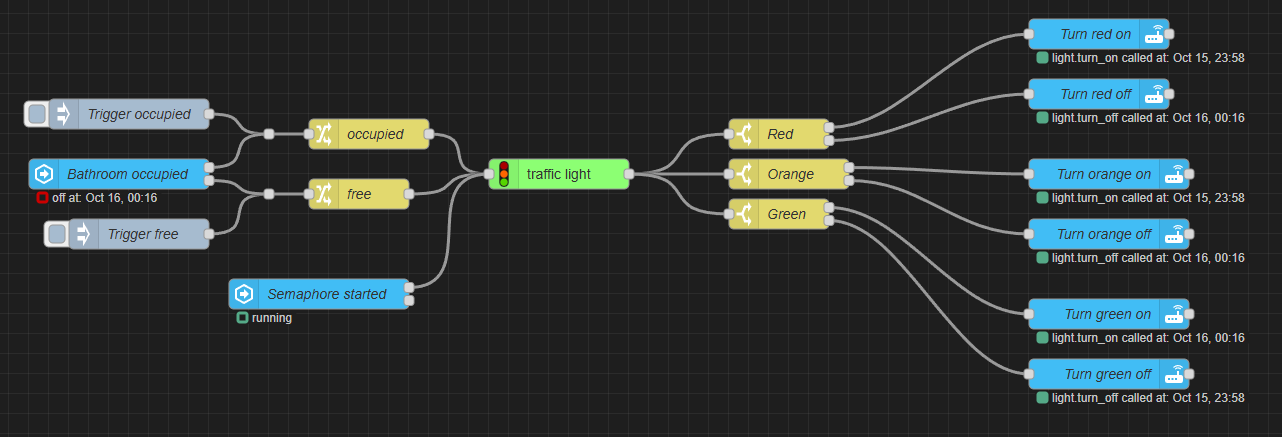
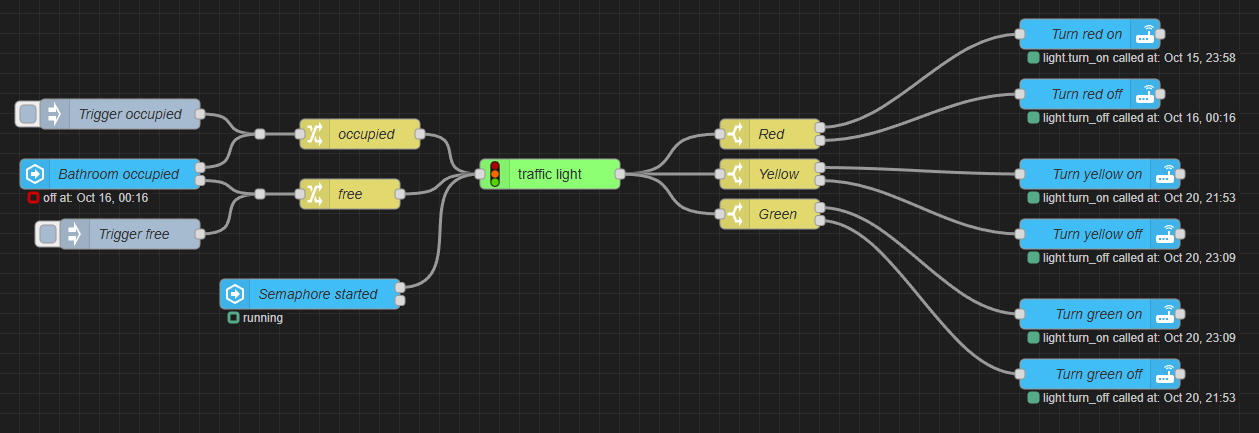
Rename orange to yellow

diff --git a/src/node.ts b/src/node.ts
@@ -7,7 +7,7 @@ interface TrafficLightNodeConfiguration extends NodeRED.NodeDef {
 }
 
 type ColorState = 'on' | 'off'
-type State = 'green' | 'orange' | 'red' | 'red-orange'
+type State = 'green' | 'yellow' | 'red' | 'red+yellow'
 
 export = function (RED: NodeRED.NodeAPI) {
 	function TrafficLightNode(
@@ -31,17 +31,17 @@ export = function (RED: NodeRED.NodeAPI) {
 				payload: {
 					state,
 					red: getSingleLightStatePayload(
-						state === 'red' || state === 'red-orange' ? 'on' : 'off',
+						state === 'red' || state === 'red+yellow' ? 'on' : 'off',
 					),
-					orange: getSingleLightStatePayload(
-						state === 'orange' || state === 'red-orange' ? 'on' : 'off',
+					yellow: getSingleLightStatePayload(
+						state === 'yellow' || state === 'red+yellow' ? 'on' : 'off',
 					),
 					green: getSingleLightStatePayload(state === 'green' ? 'on' : 'off'),
 				},
 			})
 			this.status({
-				fill: state === 'red-orange' || state === 'orange' ? 'yellow' : state,
-				shape: 'ring',
+				fill: state === 'red+yellow' ? 'yellow' : state,
+				shape: 'dot',
 				text: state,
 			})
 		}
@@ -54,10 +54,10 @@ export = function (RED: NodeRED.NodeAPI) {
 		}
 
 		const startTransition = () => {
-			state = state === 'green' ? 'orange' : 'red-orange'
+			state = state === 'green' ? 'yellow' : 'red+yellow'
 			sendCurrentStateCommand()
 			transitionTimer = setTimeout(() => {
-				state = state === 'orange' ? 'red' : 'green'
+				state = state === 'yellow' ? 'red' : 'green'
 				sendCurrentStateCommand()
 				transitionTimer = setTimeout(() => {
 					currentSimpleState = state === 'green'

diff --git a/README.md b/README.md
@@ -15,8 +15,8 @@ This is a Node-RED package to manage a traffic light.
 
 #### Transition states
 
-- Only orange
-- Orange + red
+- Only yellow
+- Yellow + red
 
 ### Example usage ([JSON export](./examples/ledSemaphore.json))
 
